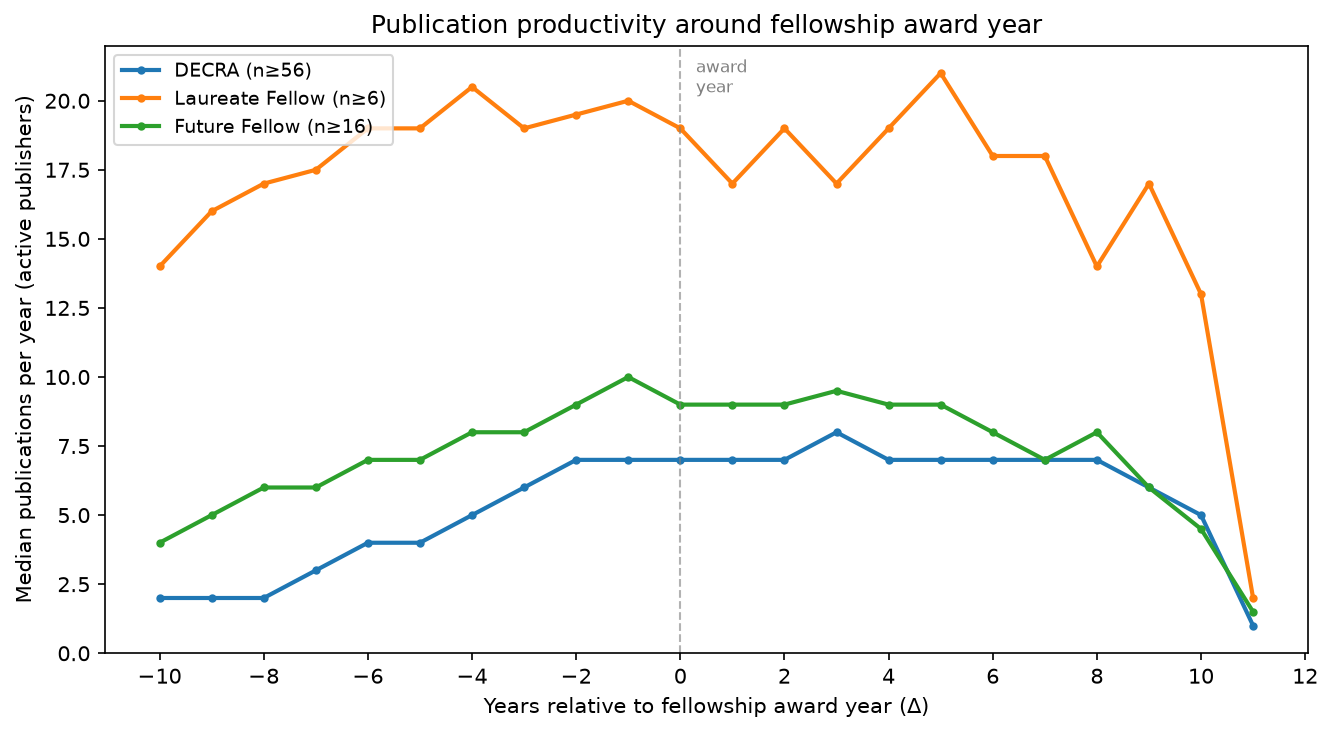
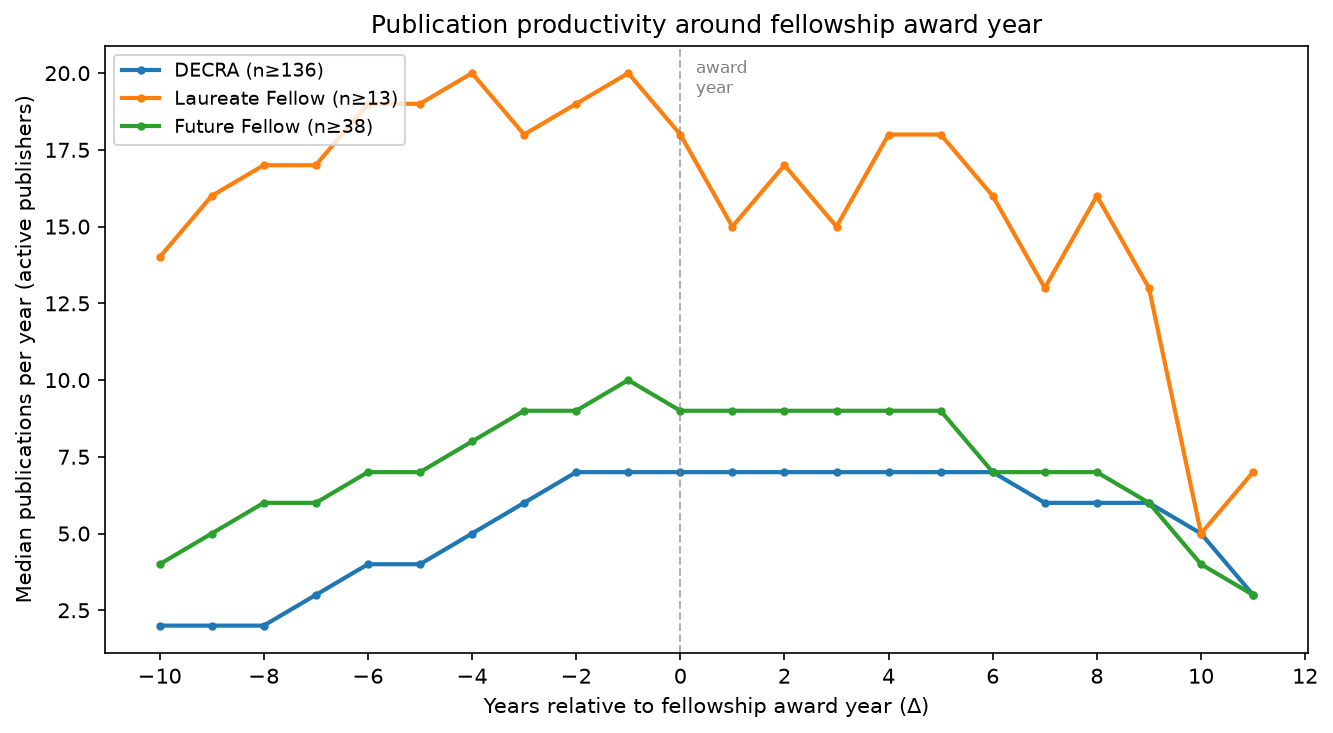
Verify analysis pipeline end-to-end against Jul26 snapshot; document migration
Ran 01_fetch_oeuvres.py, 02_accuracy_check.py, 03_annual_metrics.py,
04_au_baseline.py, 04b_citation_quantiles.py (+ 03 re-run to backfill
n_highly_cited), 05_explore.py, and 06_analyse_fellowships.py against the
Jul26-migrated data -- all pass with data quality comparable to the
pre-migration baseline, confirming the Phase 1-5 path/schema fixes from the
prior commit work correctly end-to-end, not just in isolation.

- CLAUDE.md: new "OpenAlex Snapshot Migration" section (layout, schema
  reshaping decisions, the author_idx-vs-string-id design rationale, and the
  30x performance regression caught and fixed during verification) plus dated
  rerun notes for each analysis script; Key Paths and Analysis Pipeline
  Status sections updated off the stale Feb26 references; xpac/is_xpac
  (an unused, possibly-newer OpenAlex extract batch spotted during this
  session) logged as a deferred decision in Next Priority.
- analysis/03_annual_metrics.py: fixed a stale "Feb-2026 snapshot" docstring
  reference.
- plots/*.png: regenerated fellowship academic-age and publication-trajectory
  plots against the fresh data (both full and sample-1000 variants).

diff --git a/analysis/03_annual_metrics.py b/analysis/03_annual_metrics.py
@@ -8,7 +8,8 @@ Outputs:
   collab_metrics.parquet  — arc_id × year × country/institution co-author counts
 
 H-index note: computed cumulatively for works published up to and including each year,
-using Feb-2026 snapshot citation counts. This gives the "H-index as of year Y based on
+using the current OpenAlex snapshot's citation counts (see CLAUDE.md's "OpenAlex Snapshot
+Migration" section for which snapshot). This gives the "H-index as of year Y based on
 snapshot citations" — not the true historical H-index which would require year-by-year
 citation data from the references parquet.
 

diff --git a/CLAUDE.md b/CLAUDE.md
@@ -34,8 +34,11 @@ The Splink pipeline replaces the entire old multi-layer pipeline in `src_archive
   `scope.py`, `scoring.py`).
 - Data root: `/home/lc/m/working/WORKING_ARC_PROJECT/`
 - Processed data: `/home/lc/m/working/WORKING_ARC_PROJECT/processed/`
-- OAX authors parquet: set via `OPENALEX_DIR` env var in `.env` → `/home/lc/m/openalex_feb26/parquet/`
-  - **Note**: `/media/d-drive/openalex_feb26/` is a different copy — always use `.env` path
+- OpenAlex data: set via `OPENALEX_DIR` env var in `.env` → `/home/lc/m/openalex_jul26/parquet_converted/`
+  (migrated from the old Feb26 snapshot 2026-08-08 — see "OpenAlex Snapshot Migration" below).
+  `OPENALEX_DIR` itself holds dimension tables (`authors/`, `institutions.parquet`, etc.);
+  `OPENALEX_COMPACT_DIR` (`OPENALEX_DIR / "compact"`) holds the big fact tables (`works/`,
+  `authorships/`, `work_topics/`, etc.) — a two-tier split that didn't exist in the old snapshot.
 
 ## Data Scale
 - ARC CIF rows (after role/scheme filter): 65,087 (37 previously dropped by INNER JOIN on admin_org — now LEFT JOIN)
@@ -187,6 +190,65 @@ succeeded, the remaining 7,010 cached as `confidence='error'`.
   ORCID's daily quota to reset, re-run `00b_enrich_orcid.py` to finish the remaining ~7,010
   searches, then re-run `01→03→04` once more.
 
+## OpenAlex Snapshot Migration (2026-08-08)
+Migrated the OpenAlex data source from an old "Feb26" extract (built from OpenAlex's now
+discontinued gzipped-JSON dumps) to a "Jul26" extract of OpenAlex's own native parquet
+snapshot — a one-time source swap, not a recurring update mechanism. Full detail in git history
+(commit "Migrate to Jul26 OpenAlex snapshot..."); summary here for anyone picking this up later.
+
+**Layout change**: Jul26 splits fact tables from dimension tables — `compact/` holds the big
+scan-heavy tables (`works/`, `authorships/`, `work_topics/`, `references/`, `work_abstracts/`,
+`work_sdgs/`); the parent level holds dimension/lookup tables (`authors/`, `institutions.parquet`,
+`sources.parquet`, etc.). `config/settings.py` now has `OPENALEX_DIR` (parent level) and
+`OPENALEX_COMPACT_DIR` (`OPENALEX_DIR / "compact"`) to match.
+
+**Extract reshaped to match Feb26's schema**, rather than rewriting downstream query logic —
+since the extraction/conversion process is under the user's own control, three adjustments were
+requested and confirmed present (verified against real rows, 0 nulls) before any pipeline code
+changed:
+1. `authorships` keeps `author_name` and gained `institution_name` (both denormalized inline,
+   as Feb26 had them — Jul26's native shape dropped both).
+2. `work_topics` denormalized from Jul26's native nested `LIST<STRUCT(topic_idx, score)>` (no
+   names) back to Feb26's flat one-row-per-(work,topic) shape with `subfield_idx/name,
+   field_idx/name, domain_idx/name` inline.
+3. `works` needed no change — already compatible.
+
+**Explicitly not changed**: `authors.author_idx` (integer) stays the primary key, not reverted
+to a string `id` column — deliberate design on the new snapshot for speed/compactness. Code that
+used to join ARC-side `oax_id` (a `"https://openalex.org/A<digits>"` string, used throughout
+`arc_oax_resolved.parquet`/`manual_resolutions.csv`/anywhere a human reads or pastes an OpenAlex
+URL) against the old `authors.id` string column now converts to `author_idx` first and filters on
+that native column — `src/02_prepare_oax.py` (`au.author_idx = sf.author_idx`) and
+`src/04_resolve_links.py` (two `works_count` lookups). **The string form is correct and
+necessary at the human-facing/output boundary (`oax_id` in `arc_oax_resolved.parquet` etc.) —
+only internal joins against the raw `authors` table needed to switch to `author_idx`.**
+
+**Performance gotcha, caught during verification**: the first attempt at the `04_resolve_links.py`
+fix filtered on the nested `ids.openalex` struct field (still holds the string form) instead of
+converting to `author_idx` — cost a **30x slowdown** (44m44s vs the expected ~1m30s for a full
+`04_resolve_links.py` run) at real pipeline scale (102,006 candidate IDs), apparently because
+filtering on a field nested inside a STRUCT defeats DuckDB's predicate pushdown in a way a flat
+integer column doesn't. Fixed by converting `oax_id` strings to `author_idx` integers before the
+`WHERE ... IN (...)` filter, matching the pattern already used elsewhere in the codebase — this
+dropped the run back to 1m28s. **Lesson for next time**: always filter/join raw OpenAlex tables
+on `author_idx`/`work_idx`/`topic_idx` (native surrogate keys), never on a string field reached
+through a struct, even when it's technically correct — nest-field filtering appears to scale very
+badly in DuckDB's parquet reader.
+
+**`SQL.md`** had three fully hardcoded Feb26 paths (the one place in the repo where an OpenAlex
+path lived outside `.env`/`config/settings.py`) — used to manually regenerate
+`works_intermediate_hep.parquet` → `authorships_hep.parquet` / `works_hep.parquet`, the
+HEP-institution-prefiltered intermediates `src/02_prepare_oax.py` depends on (see
+`AUTHORSHIPS_HEP.md`). Updated and re-run against Jul26.
+
+**End-to-end verification**: full `00→01→03→04` pipeline rerun holds at 98.4% resolved
+(22,675/23,049), matching the pre-migration baseline despite the OAX author pool growing from
+2.49M to 2.78M authors. `analysis/01_fetch_oeuvres.py --full` and `02_accuracy_check.py --full`
+also verified (see "Analysis Pipeline Status" below) — no data-quality regression detected.
+Confirmed via full diff review that none of the 9 migration-touched files added any
+role/scheme/fellowship filtering — the migration is scope-neutral, it doesn't carve out or
+exclude any cohort (DECRA, APF, CI, or otherwise).
+
 ## Early-Career Fellowship Cohort Review (2026-08-08)
 Corrected the role-code scope for "early career fellowship" analysis (e.g. the ECR/DECRA
 "prompt paper" study) and manually reviewed every unlinked case in scope at the time.
@@ -270,6 +332,31 @@ Output columns in `arc_persons.parquet`:
 - `analysis/03_annual_metrics.py` ✓ — annual_metrics 544,627 rows/22,586 persons; collab_metrics 4,915,067 rows/22,250 persons
 - `analysis/06_analyse_fellowships.py` — plot 2 updated: median of active publishers (not mean+zeros); DECRA bug fixed (role_code `DECRA` not `DE`); award_year >= 2015 filter added to trajectory plot
 
+### 2026-08-08 rerun, post Jul26-snapshot migration
+Re-ran `01_fetch_oeuvres.py --full`, `02_accuracy_check.py --full`, and `03_annual_metrics.py`
+against the new Jul26 OpenAlex data (see "OpenAlex Snapshot Migration" above) to confirm each
+script's path/schema fixes work end-to-end and that data quality held up against the newer,
+larger source.
+- `01_fetch_oeuvres.py` ✓ — 4,263,042 rows, 22,672 persons, 3,149,390 unique works (48s) —
+  comparable scale to the 2026-06-18 baseline (4,236,839 rows / 22,599 persons), as expected
+  given the corrected 23,049-person cohort and the larger Jul26 author pool.
+- `02_accuracy_check.py --full` ✓ (10s) — 0 over/under-coverage flags (unchanged); 116 shared
+  author_idx (was 105 — same expected common-name-collision pattern, e.g. Andrew Martin/Wei
+  Wang/Paul Thomas/Jun Li, not new contamination); 10,920 year flags + 45,679 domain outliers
+  (was 11,604 + 41,835, comparable scale). New in this run: 143,122 duplicate title+year groups
+  written to `title_dupes_full.csv` (a diagnostic not present in the 2026-06-18 run's notes).
+- `03_annual_metrics.py` ✓ (22s) — annual_metrics 546,076 rows/22,625 persons (was 544,627/22,586);
+  collab_metrics 5,116,507 rows/22,288 persons (was 4,915,067/22,250) — comparable scale,
+  confirms the `AUTH_GLOB` → `OPENALEX_COMPACT_DIR` path fix works for the raw authorships scan.
+- `04_au_baseline.py` ✓ (9s) — 3,382,340 AU-affiliated works found; sanity check AU n_pubs
+  86,187→164,835 and WLD n_pubs 8,084,109→11,439,994 (2010→2020) both look sensible in shape
+  and magnitude — full-corpus (non-ARC-filtered) scan of `compact/authorships` + `compact/works`
+  confirms the path fix works at whole-snapshot scale, not just the ARC-filtered joins above.
+- `04b_citation_quantiles.py` ✓ (47s) — 936 (field × year) rows, 26 fields; then re-ran
+  `03_annual_metrics.py` to backfill — `n_highly_cited` now populated for all 546,076 rows
+  (was stale from a 2026-06-15 run against the old Feb26 snapshot).
+- **Conclusion: no data-quality regression from the OpenAlex migration.**
+
 ## Next Priority (start of next session)
 Analysis pipeline complete as of 2026-06-18. Pipeline improvement TODOs below.
 
@@ -285,6 +372,15 @@ Analysis pipeline complete as of 2026-06-18. Pipeline improvement TODOs below.
 - Cross-grant B3 rule: same blocking key + shared co-i + same admin_org → auto-merge (catches Jun Li)
 - Complete 00b run: 7,084 ARC-ORCID records still need fetching (running 2026-06-18; was 11,566)
 - Strengthen reliability_tier: add ARC for_names vs orcid_for_codes agreement signal for HAS_ORCID clusters
+- **Decide on `xpac`/`is_xpac`** (2026-08-08): `/home/lc/m/openalex_jul26/parquet_converted/`
+  has `xpac/` and `xpac_raw/` directories alongside `compact/`, mirroring the same table set
+  (authorships, references, work_abstracts, works, work_sdgs, work_topics) — **not currently
+  read by anything in this codebase** (`analysis/01_fetch_oeuvres.py` and everything else only
+  reads `OPENALEX_COMPACT_DIR`). Row counts differ meaningfully (`compact/works` 317.8M vs
+  `xpac/works` 192.6M — not a duplicate), and `xpac/work_topics` was modified *after*
+  `compact/work_topics` on the same day, suggesting it may be a newer or still-in-progress
+  extraction batch. Needs a decision: merge into `compact/`, read alongside it, or leave
+  untouched — deferred, revisit before treating any future oeuvres fetch as complete/final.
 
 ## Manual Resolution Techniques (Not Yet Automated in Pipeline)
 
